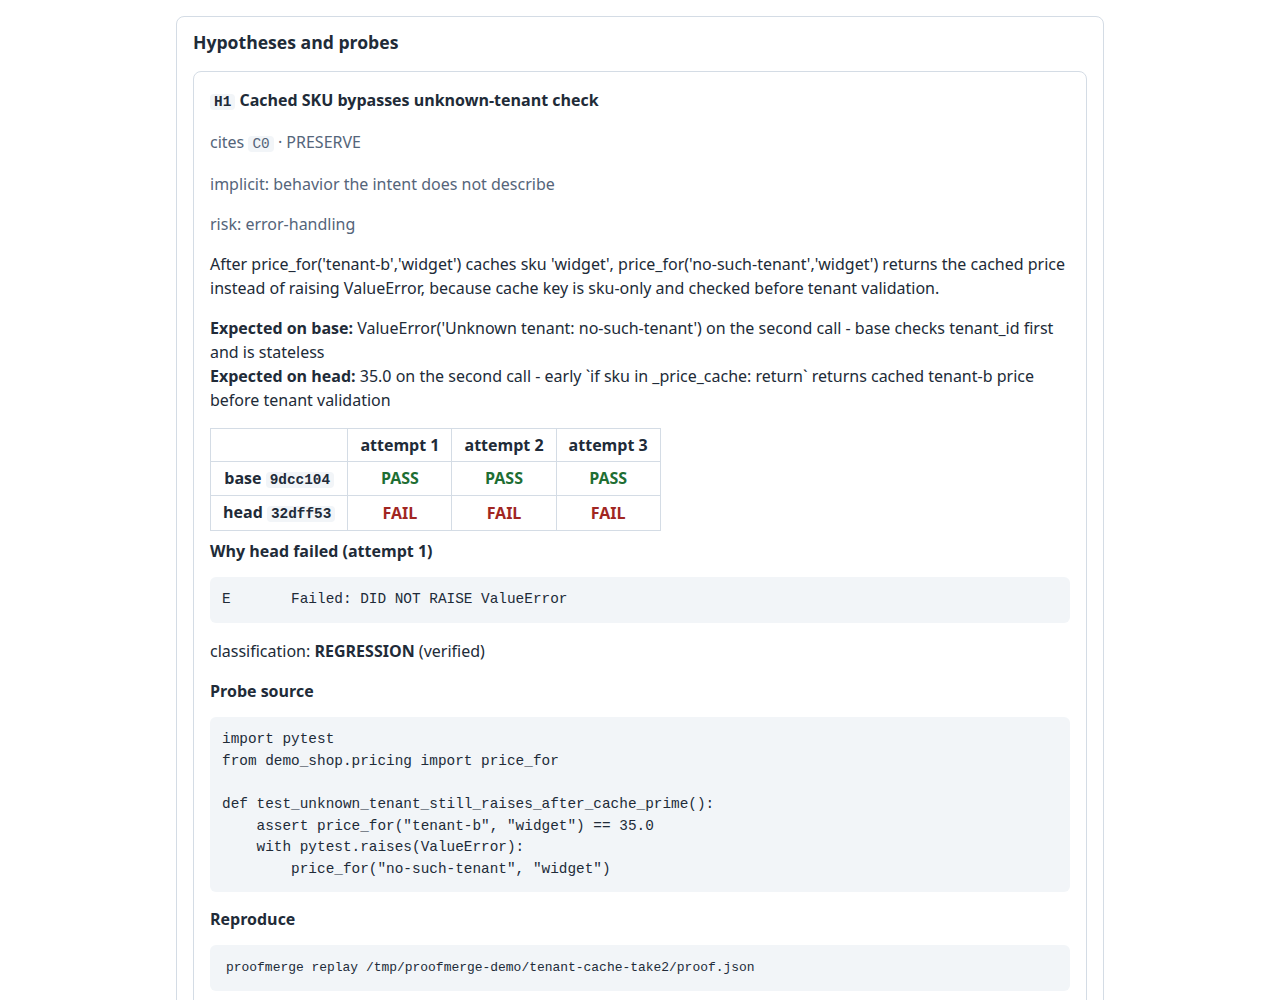
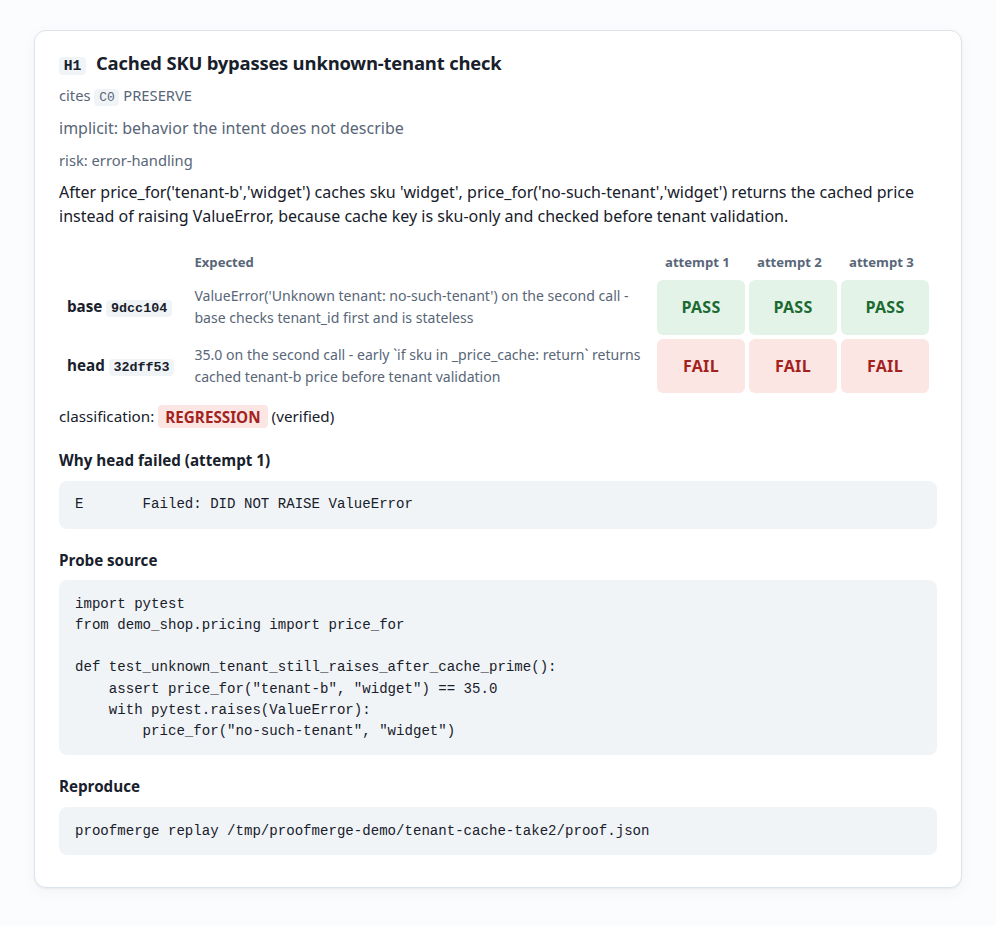
T54: README report screenshots in the current report design
Re-rendered the committed tenant-cache-take2 proof with the current report
code and re-took the full-report and H1-card screenshots. Same run and
content; only the look changed.

Claude-Session: https://claude.ai/code/session_01YGZU6pLA8RFT1VihUK4JMU

diff --git a/BUILDLOG.md b/BUILDLOG.md
@@ -551,3 +551,6 @@ release-stock-guard                  NOT_BLOCK  FAIL       PASS
 - Limitation: in Go, a panic inside the probe also prints `--- FAIL: TestProofMergeProbe`, so it counts as FAIL, not ERROR as in the Python runner. The `runner` argument is not used on the config path (it always runs Docker), so the config path is tested offline only through fakes of `run_config_experiment`.
 - `replay --rerun` now uses the config runner for a proof whose `language` is not Python, with `.proofmerge.toml` read from the recorded base commit (it used to run every probe with pytest). Two offline tests added.
 - Real run (5 Meta calls: 4438 prompt, 7449 completion tokens; 5 min 35 s): `proofmerge verify /tmp/proofmerge-go-demo --base main --head candidate/go-tenant-cache --intent-file demo/candidates-go/go-tenant-cache/intent.md` gave `verdict: BLOCK`, "H1 is a verified regression against uncontested PRESERVE claim C3 with intent present." Spark proposed one hypothesis and wrote a Go probe that primes the cache with tenant-a and expects an error for an unknown tenant: base PASS 3/3, head FAIL 3/3 (`second call with unknown tenant succeeded with price 25`). Scope limitations include the missing tamper guard. `replay` gave `evidence intact: 18 files`; `replay --rerun --repo /tmp/proofmerge-go-demo` gave `H1 base PPP head FFF: reproduced`. Bundle committed in `demo/runs/2026-10-30-go/go-tenant-cache`; a fresh build of the demo gives the same base `8aae692` and head `672f3f5`.
+
+### 2026-10-31 — T54 Report screenshots in the current design
+- `docs/assets/report-full-real-light.png` and `report-card-real-light.png` were still the old report look. Re-rendered `report.html` from the committed `demo/runs/2026-10-29/tenant-cache-take2/proof.json` with the current `render_html` (the committed bundle is unchanged), then took headless Chrome screenshots at 1280 px width, light mode. The card image shows only the H1 card (other elements hidden with CSS on a scratch copy), trimmed to the card. Same run, same content as before; README alt text still matches.
